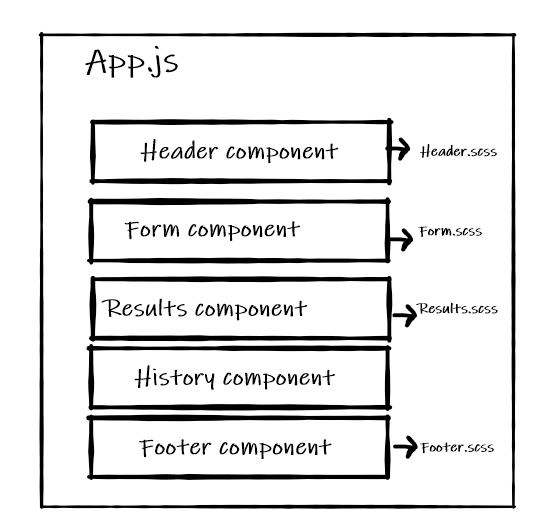
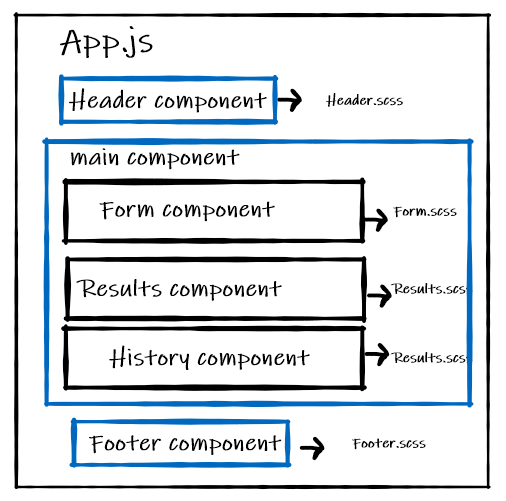
lab28

Changed region(s): [[0.0296, 0.0, 0.9783, 0.988]]

diff --git a/src/components/Header/index.js b/src/components/Header/index.js
@@ -1,5 +1,5 @@
 import './Header.scss'
-import { NavLink } from 'react-router-dom';
+// import { NavLink } from 'react-router-dom';
 
 const Header = ()=>{
     return(

diff --git a/README.md b/README.md
@@ -1,20 +1,10 @@
 # RESTy app :
-1. [deployed link on Netlify](https://resty-app-401.netlify.app/)
-2. [deployed link on Heroku](https://resty-app-faten.herokuapp.com/)
+1. [deployed link on Netlify](https://resty-app-28.netlify.app/)
+2. [deployed link on Heroku](https://resty-app-28.herokuapp.com/)
 
-
-# LAB - Component Based UI
--  Begin work on the RESTy API application
  
- # links 
- [PR link](https://github.com/Fatensamman/resty/pull/1)
-
- # LAB - Props and State
- [PR link](https://github.com/Fatensamman/resty/pull/9)
-
-
-# LAB - Compositions
-[PR link](https://github.com/Fatensamman/resty/pull/10)
+ # LAB - Compositions
+[PR link](https://github.com/Fatensamman/resty/pull/15)
 
  ## UML Diagram
  ![image](./public/appuml2.png)
